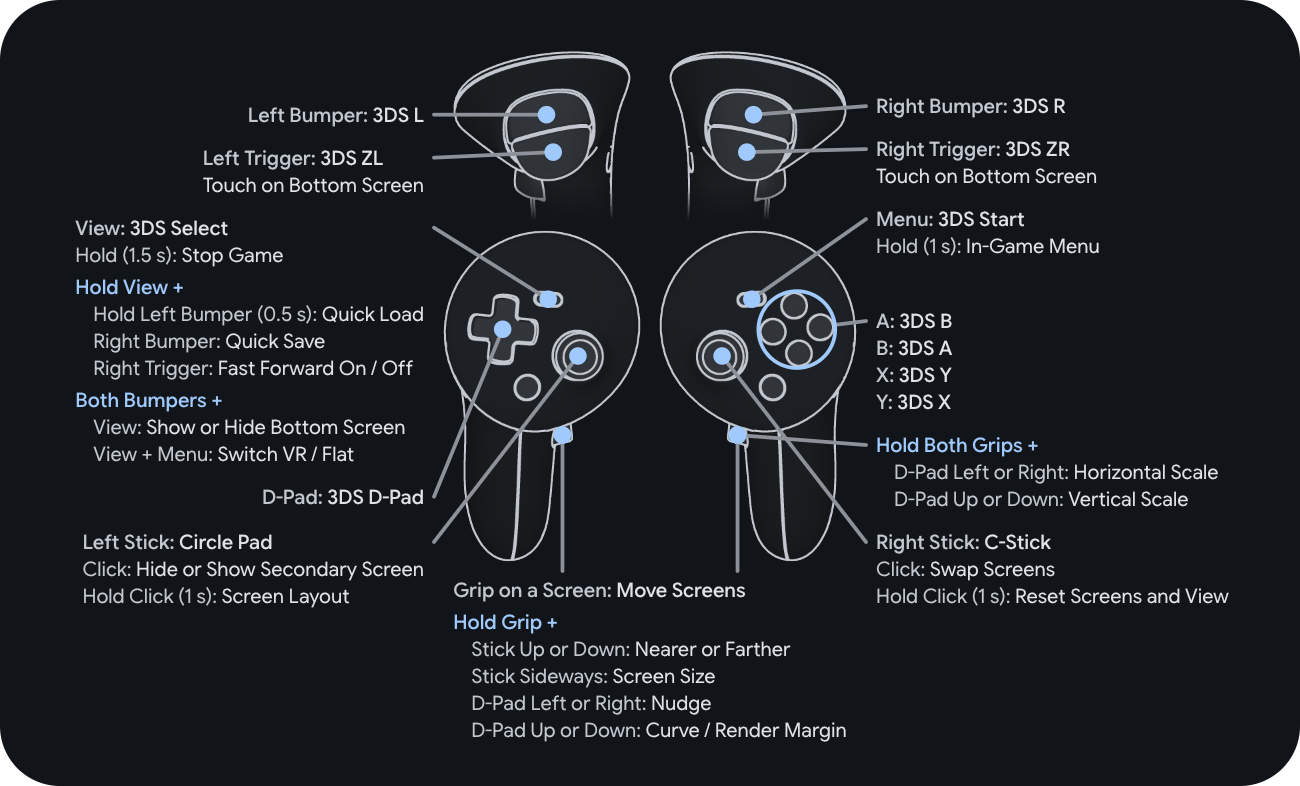
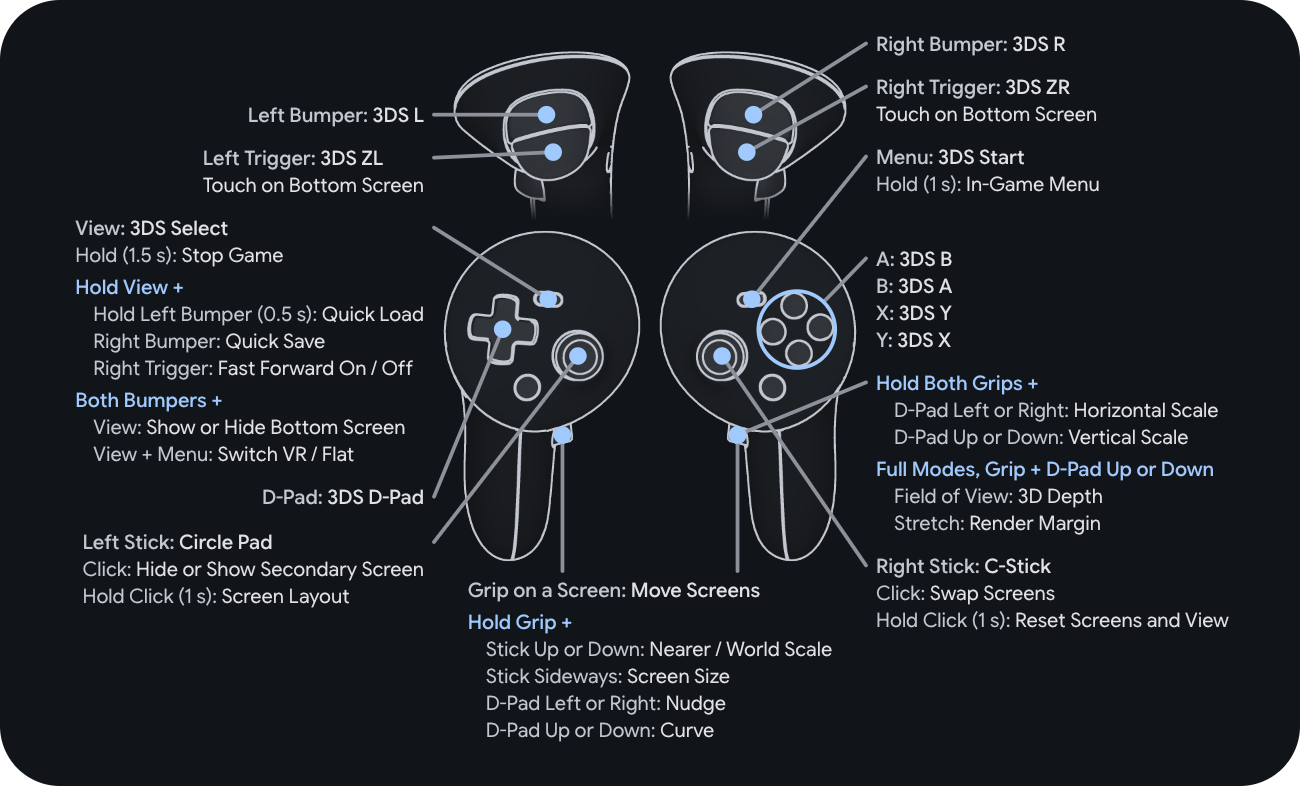
Controls help and diagram: grip + D-pad up or down by Scale Mode

diff --git a/src/frame_xr/vis/help_content.cpp b/src/frame_xr/vis/help_content.cpp
@@ -257,9 +257,12 @@ HelpPage BuildHelp(const HelpBindings& given, const HelpContext& ctx) {
     Row(g, "Hold Grip + Stick Up or Down", std::string("Distance or ") + ImNames::kWorldScale);
     Row(g, "Hold Grip + Stick Sideways", "Screen Size");
     Row(g, "Hold Grip + D-Pad Left or Right", "Nudge Screen"); // AzaharFrame vrsize
-    // AzaharFrame curve; kiu: Render Margin (was Wider View), and both grips' two scales
-    Row(g, "Hold Grip + D-Pad Up or Down",
-        std::string("Screen Curve or ") + ImNames::kRenderMargin);
+    // AzaharFrame curve; kiu: Render Margin (was Wider View), and both grips' two scales.
+    // AzaharFrame fovaxis: on the immersive screen it follows Scale Mode (Full modes only):
+    // 3D Depth with Field of View, Render Margin with Stretch (Layout::GripUpDownFor).
+    Row(g, "Hold Grip + D-Pad Up or Down", "Screen Curve");
+    Row(g, "Same in Field of View", ImNames::kDepth3d);
+    Row(g, "Same in Stretch", ImNames::kRenderMargin);
     Row(g, "Both Grips + D-Pad Left or Right", ImNames::kHorizontalScale);
     Row(g, "Both Grips + D-Pad Up or Down", ImNames::kVerticalScale);
     Row(g, "Hold Menu (1 s)", "In-Game Menu");
@@ -358,13 +361,18 @@ HelpDiagram BuildHelpDiagram(const HelpBindings& given, const HelpContext& ctx) 
            Sub("Stick Up or Down", std::string("Nearer / ") + ImNames::kWorldScale),
            Sub("Stick Sideways", "Screen Size"),
            Sub("D-Pad Left or Right", "Nudge"), // AzaharFrame vrsize
-           // AzaharFrame kiu: "/", as wide as fits between the stick labels
-           Sub("D-Pad Up or Down", std::string("Curve / ") + ImNames::kRenderMargin)}); // curve
+           // AzaharFrame fovaxis: the normal screens' Curve; the immersive screen's is in the
+           // right grip's label (under the drawings there is no room for more lines).
+           Sub("D-Pad Up or Down", "Curve")}); // AzaharFrame curve
     // AzaharFrame kiu: both grips' D-pad, in the right column (under the drawings there is no
     // room left for it).
+    // AzaharFrame fovaxis: and one grip's D-pad up or down on the immersive screen (Full modes),
+    // which Scale Mode decides: 3D Depth with Field of View, Render Margin with Stretch.
     Label(g, kRight, {CtrlPart::Grip},
           {SubHeading("Hold Both Grips +"), Sub("D-Pad Left or Right", ImNames::kHorizontalScale),
-           Sub("D-Pad Up or Down", ImNames::kVerticalScale)});
+           Sub("D-Pad Up or Down", ImNames::kVerticalScale),
+           SubHeading("Full Modes, Grip + D-Pad Up or Down"),
+           Sub("Field of View", ImNames::kDepth3d), Sub("Stretch", ImNames::kRenderMargin)});
 
     // ---- Azahar's window (the home panel), the in-game menu, everywhere ----
     DiagramPage& w = d.pages[static_cast<std::size_t>(DiagramPageId::Window)];

diff --git a/src/tests/frame_xr/vis.cpp b/src/tests/frame_xr/vis.cpp
@@ -82,8 +82,11 @@ TEST_CASE("FrameXr vis: the help follows the profile and Face Buttons", "[frame_
         REQUIRE(ActionFor(page.game, "Left Bumper") == "Nothing");
         REQUIRE(ActionFor(page.game, "Grip on a Screen") == "3DS L, Move Screens");
         REQUIRE(ActionFor(page.game, "Grip (Immersive)") == "Move Immersive Screen");
-        REQUIRE(ActionFor(page.game, "Hold Grip + D-Pad Up or Down") ==
-                "Screen Curve or Render Margin"); // AzaharFrame kiu
+        // AzaharFrame fovaxis: Curve on the normal screens; on the immersive screen 3D Depth
+        // with Field of View, Render Margin with Stretch.
+        REQUIRE(ActionFor(page.game, "Hold Grip + D-Pad Up or Down") == "Screen Curve");
+        REQUIRE(ActionFor(page.game, "Same in Field of View") == "3D Depth");
+        REQUIRE(ActionFor(page.game, "Same in Stretch") == "Render Margin");
         REQUIRE(ActionFor(page.game, "Both Grips + D-Pad Left or Right") == "Horizontal Scale");
         REQUIRE(ActionFor(page.game, "Both Grips + D-Pad Up or Down") == "Vertical Scale");
         REQUIRE(ActionFor(page.game, "D-Pad Up") == "Nothing");
@@ -406,8 +409,7 @@ TEST_CASE("FrameXr vis: the diagram follows the profile and Face Buttons", "[fra
         // One label for both grips.
         REQUIRE(FindDiagramLabel(g, 0, CtrlPart::Grip) == FindDiagramLabel(g, 1, CtrlPart::Grip));
         REQUIRE(DiagramAction(g, 0, CtrlPart::Grip, "Grip on a Screen") == "Move Screens");
-        REQUIRE(DiagramAction(g, 0, CtrlPart::Grip, "D-Pad Up or Down") ==
-                "Curve / Render Margin"); // AzaharFrame kiu
+        REQUIRE(DiagramAction(g, 0, CtrlPart::Grip, "D-Pad Up or Down") == "Curve");
         // AzaharFrame kiu: both grips' D-pad, a label of its own at the right grip
         const DiagramLabel* both_grips = nullptr;
         for (const DiagramLabel& l : g.labels) {
@@ -420,6 +422,11 @@ TEST_CASE("FrameXr vis: the diagram follows the profile and Face Buttons", "[fra
         REQUIRE(LineFor(both_grips, "Hold Both Grips +")->heading);
         REQUIRE(LineFor(both_grips, "D-Pad Left or Right")->action == "Horizontal Scale");
         REQUIRE(LineFor(both_grips, "D-Pad Up or Down")->action == "Vertical Scale");
+        // AzaharFrame fovaxis: and the immersive screen's one-grip D-pad up or down there.
+        REQUIRE(LineFor(both_grips, "Full Modes, Grip + D-Pad Up or Down"));
+        REQUIRE(LineFor(both_grips, "Full Modes, Grip + D-Pad Up or Down")->heading);
+        REQUIRE(LineFor(both_grips, "Field of View")->action == "3D Depth");
+        REQUIRE(LineFor(both_grips, "Stretch")->action == "Render Margin");
         // The window's page.
         const DiagramPage& w = d.pages[1];
         REQUIRE(DiagramAction(w, 1, CtrlPart::A, "A") == "Click");
